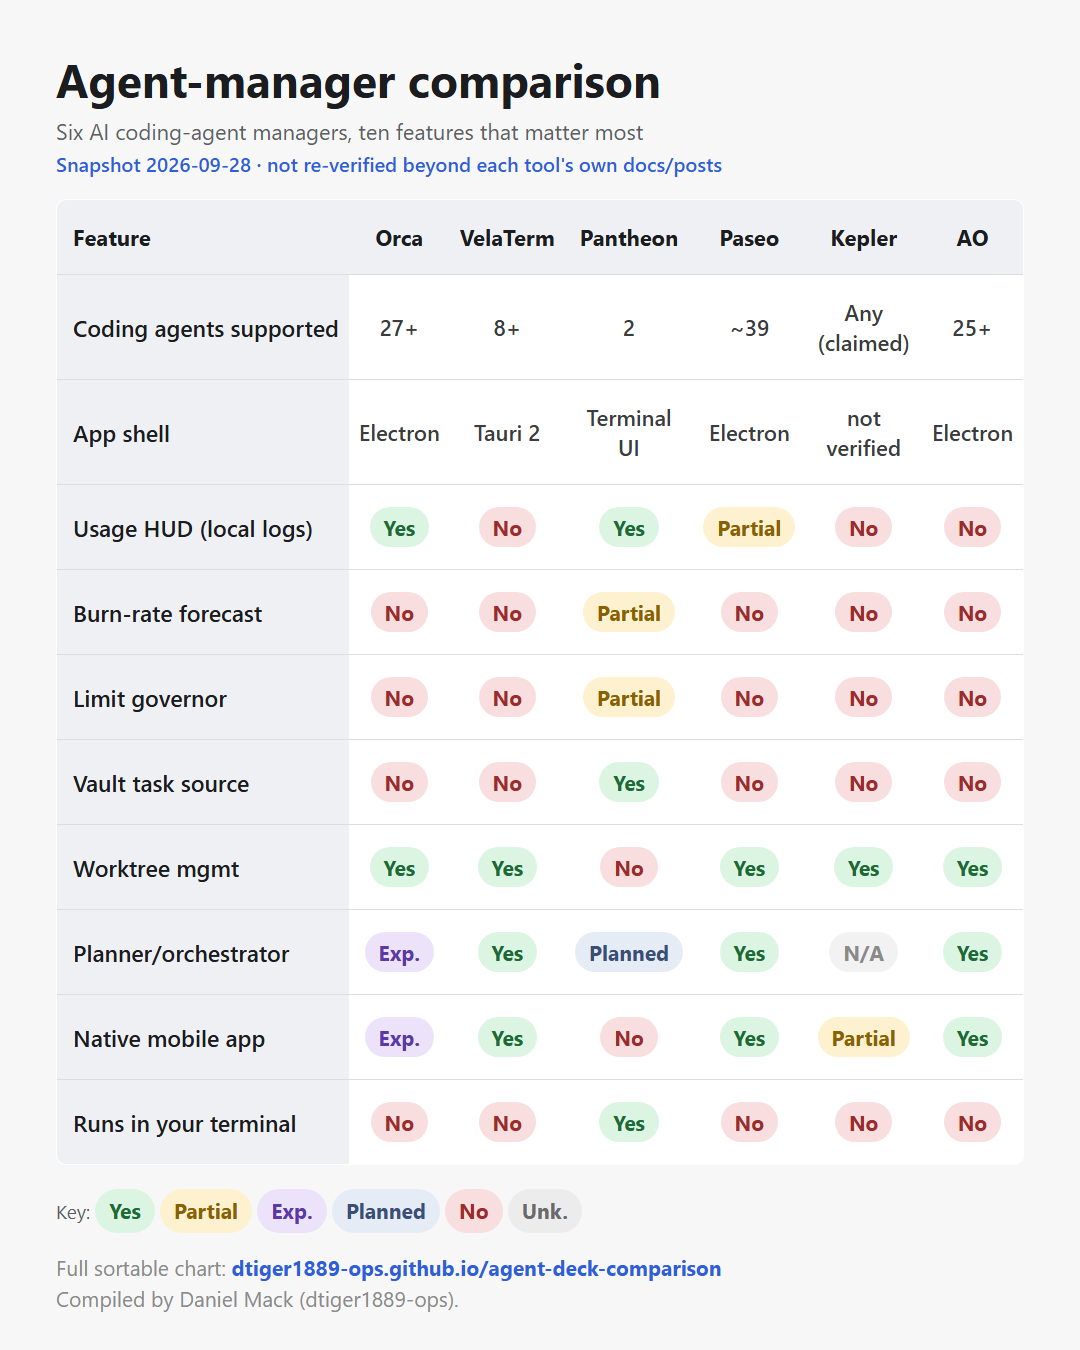
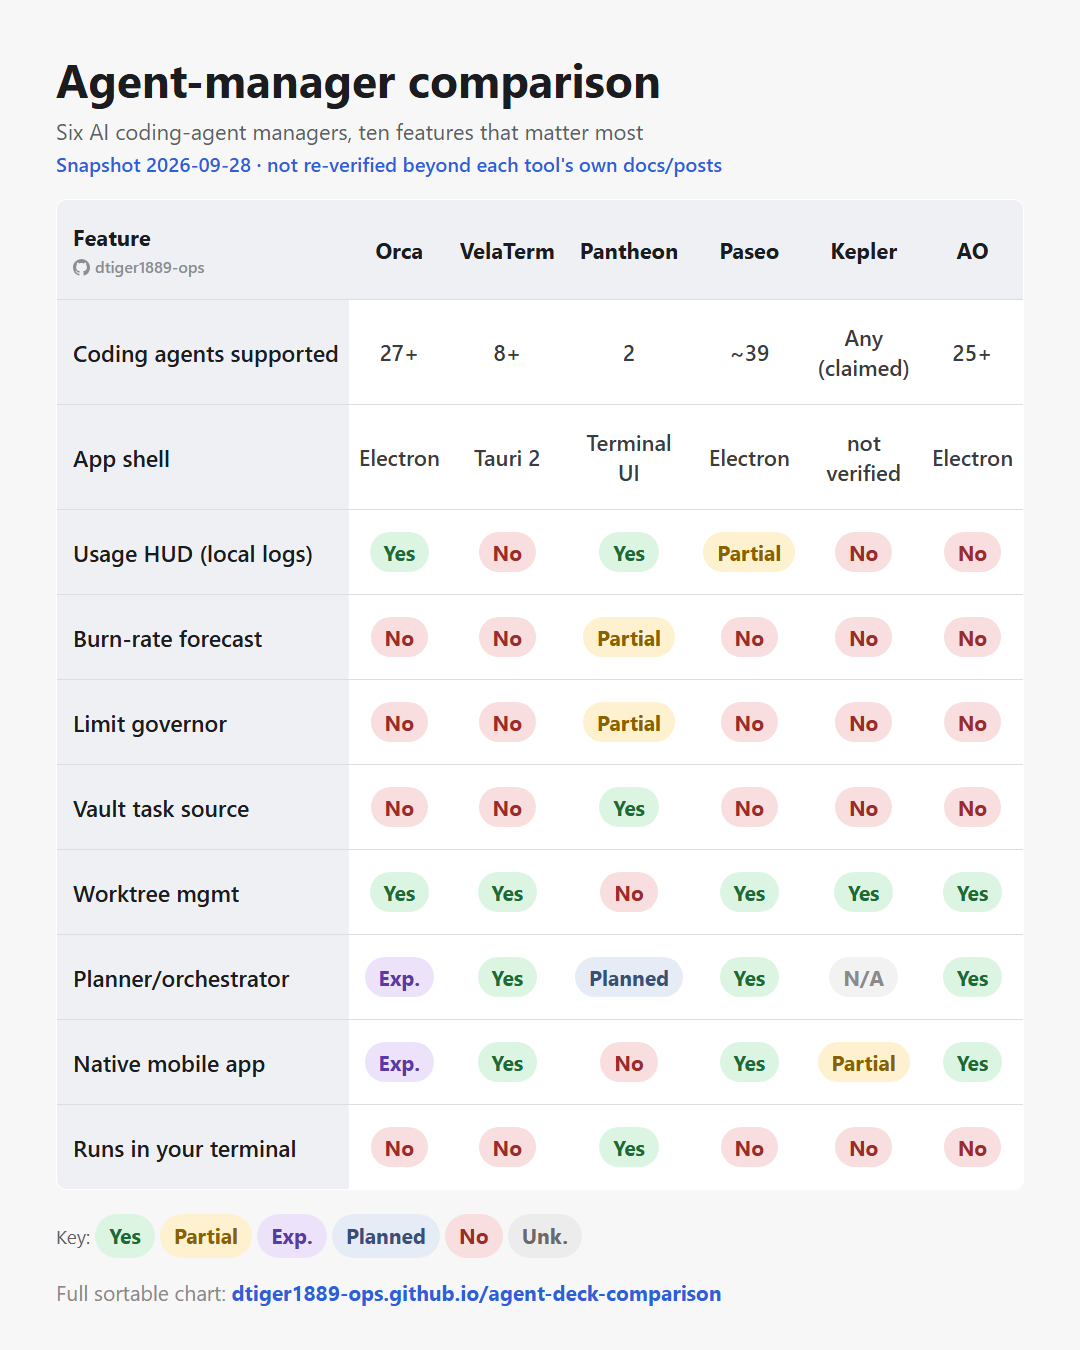
LinkedIn image: GitHub watermark under Feature, credit line removed

diff --git a/assets/linkedin.html b/assets/linkedin.html
@@ -19,6 +19,8 @@
   .b { display: inline-block; padding: 6px 14px; border-radius: 999px; font-size: 21px; font-weight: 700; }
   td.plain { font-size: 22px; color: #3a3c40; font-weight: 600; }
   .key { margin-top: 24px; font-size: 19px; color: #5c5f66; line-height: 1.5; }
+  .wm { display: block; margin-top: 4px; font-size: 16px; font-weight: 500; color: #8a8d94; white-space: nowrap; }
+  .wm .gh { vertical-align: -3px; margin-right: 5px; }
   .footer { margin-top: 18px; font-size: 21px; line-height: 1.5; color: #8a8a8a; }
 </style></head>
 <body>
@@ -26,7 +28,7 @@
   <p class="sub">Six AI coding-agent managers, ten features that matter most</p>
   <p class="snap">Snapshot 2026-09-28 &middot; not re-verified beyond each tool's own docs/posts</p>
   <table>
-    <thead><tr><th>Feature</th><th>Orca</th><th>VelaTerm</th><th>Pantheon</th><th>Paseo</th><th>Kepler</th><th>AO</th></tr></thead>
+    <thead><tr><th>Feature<span class="wm"><svg class="gh" viewBox="0 0 16 16" width="17" height="17" aria-hidden="true"><path fill="currentColor" d="M8 0c4.42 0 8 3.58 8 8a8.013 8.013 0 0 1-5.45 7.59c-.4.08-.55-.17-.55-.38 0-.27.01-1.13.01-2.2 0-.75-.25-1.23-.54-1.48 1.78-.2 3.65-.88 3.65-3.95 0-.88-.31-1.59-.82-2.15.08-.2.36-1.02-.08-2.12 0 0-.67-.22-2.2.82-.64-.18-1.32-.27-2-.27-.68 0-1.36.09-2 .27-1.53-1.03-2.2-.82-2.2-.82-.44 1.1-.16 1.92-.08 2.12-.51.56-.82 1.28-.82 2.15 0 3.06 1.86 3.75 3.64 3.95-.23.2-.44.55-.51 1.07-.46.21-1.61.55-2.33-.66-.15-.24-.6-.83-1.23-.82-.67.01-.27.38.01.53.34.19.73.9.82 1.13.16.45.68 1.31 2.69.94 0 .67.01 1.3.01 1.49 0 .21-.15.45-.55.37A7.995 7.995 0 0 1 0 8c0-4.42 3.58-8 8-8Z"/></svg>dtiger1889-ops</span></th><th>Orca</th><th>VelaTerm</th><th>Pantheon</th><th>Paseo</th><th>Kepler</th><th>AO</th></tr></thead>
     <tbody><tr><th>Coding agents supported</th><td class="plain">27+</td><td class="plain">8+</td><td class="plain">2</td><td class="plain">~39</td><td class="plain">Any (claimed)</td><td class="plain">25+</td></tr><tr><th>App shell</th><td class="plain">Electron</td><td class="plain">Tauri 2</td><td class="plain">Terminal UI</td><td class="plain">Electron</td><td class="plain">not verified</td><td class="plain">Electron</td></tr><tr><th>Usage HUD (local logs)</th><td><span class="b" style="background:#dcf5e2;color:#1d6b34">Yes</span></td><td><span class="b" style="background:#f8dede;color:#9c2b2b">No</span></td><td><span class="b" style="background:#dcf5e2;color:#1d6b34">Yes</span></td><td><span class="b" style="background:#fdf1cf;color:#8a6100">Partial</span></td><td><span class="b" style="background:#f8dede;color:#9c2b2b">No</span></td><td><span class="b" style="background:#f8dede;color:#9c2b2b">No</span></td></tr><tr><th>Burn-rate forecast</th><td><span class="b" style="background:#f8dede;color:#9c2b2b">No</span></td><td><span class="b" style="background:#f8dede;color:#9c2b2b">No</span></td><td><span class="b" style="background:#fdf1cf;color:#8a6100">Partial</span></td><td><span class="b" style="background:#f8dede;color:#9c2b2b">No</span></td><td><span class="b" style="background:#f8dede;color:#9c2b2b">No</span></td><td><span class="b" style="background:#f8dede;color:#9c2b2b">No</span></td></tr><tr><th>Limit governor</th><td><span class="b" style="background:#f8dede;color:#9c2b2b">No</span></td><td><span class="b" style="background:#f8dede;color:#9c2b2b">No</span></td><td><span class="b" style="background:#fdf1cf;color:#8a6100">Partial</span></td><td><span class="b" style="background:#f8dede;color:#9c2b2b">No</span></td><td><span class="b" style="background:#f8dede;color:#9c2b2b">No</span></td><td><span class="b" style="background:#f8dede;color:#9c2b2b">No</span></td></tr><tr><th>Vault task source</th><td><span class="b" style="background:#f8dede;color:#9c2b2b">No</span></td><td><span class="b" style="background:#f8dede;color:#9c2b2b">No</span></td><td><span class="b" style="background:#dcf5e2;color:#1d6b34">Yes</span></td><td><span class="b" style="background:#f8dede;color:#9c2b2b">No</span></td><td><span class="b" style="background:#f8dede;color:#9c2b2b">No</span></td><td><span class="b" style="background:#f8dede;color:#9c2b2b">No</span></td></tr><tr><th>Worktree mgmt</th><td><span class="b" style="background:#dcf5e2;color:#1d6b34">Yes</span></td><td><span class="b" style="background:#dcf5e2;color:#1d6b34">Yes</span></td><td><span class="b" style="background:#f8dede;color:#9c2b2b">No</span></td><td><span class="b" style="background:#dcf5e2;color:#1d6b34">Yes</span></td><td><span class="b" style="background:#dcf5e2;color:#1d6b34">Yes</span></td><td><span class="b" style="background:#dcf5e2;color:#1d6b34">Yes</span></td></tr><tr><th>Planner/orchestrator</th><td><span class="b" style="background:#ece3fb;color:#5b3aa8">Exp.</span></td><td><span class="b" style="background:#dcf5e2;color:#1d6b34">Yes</span></td><td><span class="b" style="background:#e6ecf5;color:#3a4f78">Planned</span></td><td><span class="b" style="background:#dcf5e2;color:#1d6b34">Yes</span></td><td><span class="b" style="background:#f2f2f2;color:#8a8a8a">N/A</span></td><td><span class="b" style="background:#dcf5e2;color:#1d6b34">Yes</span></td></tr><tr><th>Native mobile app</th><td><span class="b" style="background:#ece3fb;color:#5b3aa8">Exp.</span></td><td><span class="b" style="background:#dcf5e2;color:#1d6b34">Yes</span></td><td><span class="b" style="background:#f8dede;color:#9c2b2b">No</span></td><td><span class="b" style="background:#dcf5e2;color:#1d6b34">Yes</span></td><td><span class="b" style="background:#fdf1cf;color:#8a6100">Partial</span></td><td><span class="b" style="background:#dcf5e2;color:#1d6b34">Yes</span></td></tr><tr><th>Runs in your terminal</th><td><span class="b" style="background:#f8dede;color:#9c2b2b">No</span></td><td><span class="b" style="background:#f8dede;color:#9c2b2b">No</span></td><td><span class="b" style="background:#dcf5e2;color:#1d6b34">Yes</span></td><td><span class="b" style="background:#f8dede;color:#9c2b2b">No</span></td><td><span class="b" style="background:#f8dede;color:#9c2b2b">No</span></td><td><span class="b" style="background:#f8dede;color:#9c2b2b">No</span></td></tr></tbody>
   </table>
   <p class="key">Key: <span class="b" style="background:#dcf5e2;color:#1d6b34">Yes</span>
@@ -35,5 +37,5 @@
   <span class="b" style="background:#e6ecf5;color:#3a4f78">Planned</span>
   <span class="b" style="background:#f8dede;color:#9c2b2b">No</span>
   <span class="b" style="background:#ececec;color:#6a6a6a">Unk.</span></p>
-  <p class="footer">Full sortable chart: <b style="color:#2f5fd8">dtiger1889-ops.github.io/agent-deck-comparison</b><br>Compiled by Daniel Mack (dtiger1889-ops).</p>
+  <p class="footer">Full sortable chart: <b style="color:#2f5fd8">dtiger1889-ops.github.io/agent-deck-comparison</b></p>
 </body></html>

diff --git a/tools/build_linkedin.py b/tools/build_linkedin.py
@@ -100,6 +100,8 @@ html = f"""<!DOCTYPE html>
   .b {{ display: inline-block; padding: 6px 14px; border-radius: 999px; font-size: 21px; font-weight: 700; }}
   td.plain {{ font-size: 22px; color: #3a3c40; font-weight: 600; }}
   .key {{ margin-top: 24px; font-size: 19px; color: #5c5f66; line-height: 1.5; }}
+  .wm {{ display: block; margin-top: 4px; font-size: 16px; font-weight: 500; color: #8a8d94; white-space: nowrap; }}
+  .wm .gh {{ vertical-align: -3px; margin-right: 5px; }}
   .footer {{ margin-top: 18px; font-size: 21px; line-height: 1.5; color: #8a8a8a; }}
 </style></head>
 <body>
@@ -107,7 +109,7 @@ html = f"""<!DOCTYPE html>
   <p class="sub">Six AI coding-agent managers, ten features that matter most</p>
   <p class="snap">Snapshot 2026-09-28 &middot; not re-verified beyond each tool's own docs/posts</p>
   <table>
-    <thead><tr><th>Feature</th>{header_cells}</tr></thead>
+    <thead><tr><th>Feature<span class="wm"><svg class="gh" viewBox="0 0 16 16" width="17" height="17" aria-hidden="true"><path fill="currentColor" d="M8 0c4.42 0 8 3.58 8 8a8.013 8.013 0 0 1-5.45 7.59c-.4.08-.55-.17-.55-.38 0-.27.01-1.13.01-2.2 0-.75-.25-1.23-.54-1.48 1.78-.2 3.65-.88 3.65-3.95 0-.88-.31-1.59-.82-2.15.08-.2.36-1.02-.08-2.12 0 0-.67-.22-2.2.82-.64-.18-1.32-.27-2-.27-.68 0-1.36.09-2 .27-1.53-1.03-2.2-.82-2.2-.82-.44 1.1-.16 1.92-.08 2.12-.51.56-.82 1.28-.82 2.15 0 3.06 1.86 3.75 3.64 3.95-.23.2-.44.55-.51 1.07-.46.21-1.61.55-2.33-.66-.15-.24-.6-.83-1.23-.82-.67.01-.27.38.01.53.34.19.73.9.82 1.13.16.45.68 1.31 2.69.94 0 .67.01 1.3.01 1.49 0 .21-.15.45-.55.37A7.995 7.995 0 0 1 0 8c0-4.42 3.58-8 8-8Z"/></svg>dtiger1889-ops</span></th>{header_cells}</tr></thead>
     <tbody>{''.join(rows_html)}</tbody>
   </table>
   <p class="key">Key: <span class="b" style="background:#dcf5e2;color:#1d6b34">Yes</span>
@@ -116,7 +118,7 @@ html = f"""<!DOCTYPE html>
   <span class="b" style="background:#e6ecf5;color:#3a4f78">Planned</span>
   <span class="b" style="background:#f8dede;color:#9c2b2b">No</span>
   <span class="b" style="background:#ececec;color:#6a6a6a">Unk.</span></p>
-  <p class="footer">Full sortable chart: <b style="color:#2f5fd8">dtiger1889-ops.github.io/agent-deck-comparison</b><br>Compiled by Daniel Mack (dtiger1889-ops).</p>
+  <p class="footer">Full sortable chart: <b style="color:#2f5fd8">dtiger1889-ops.github.io/agent-deck-comparison</b></p>
 </body></html>
 """
 
